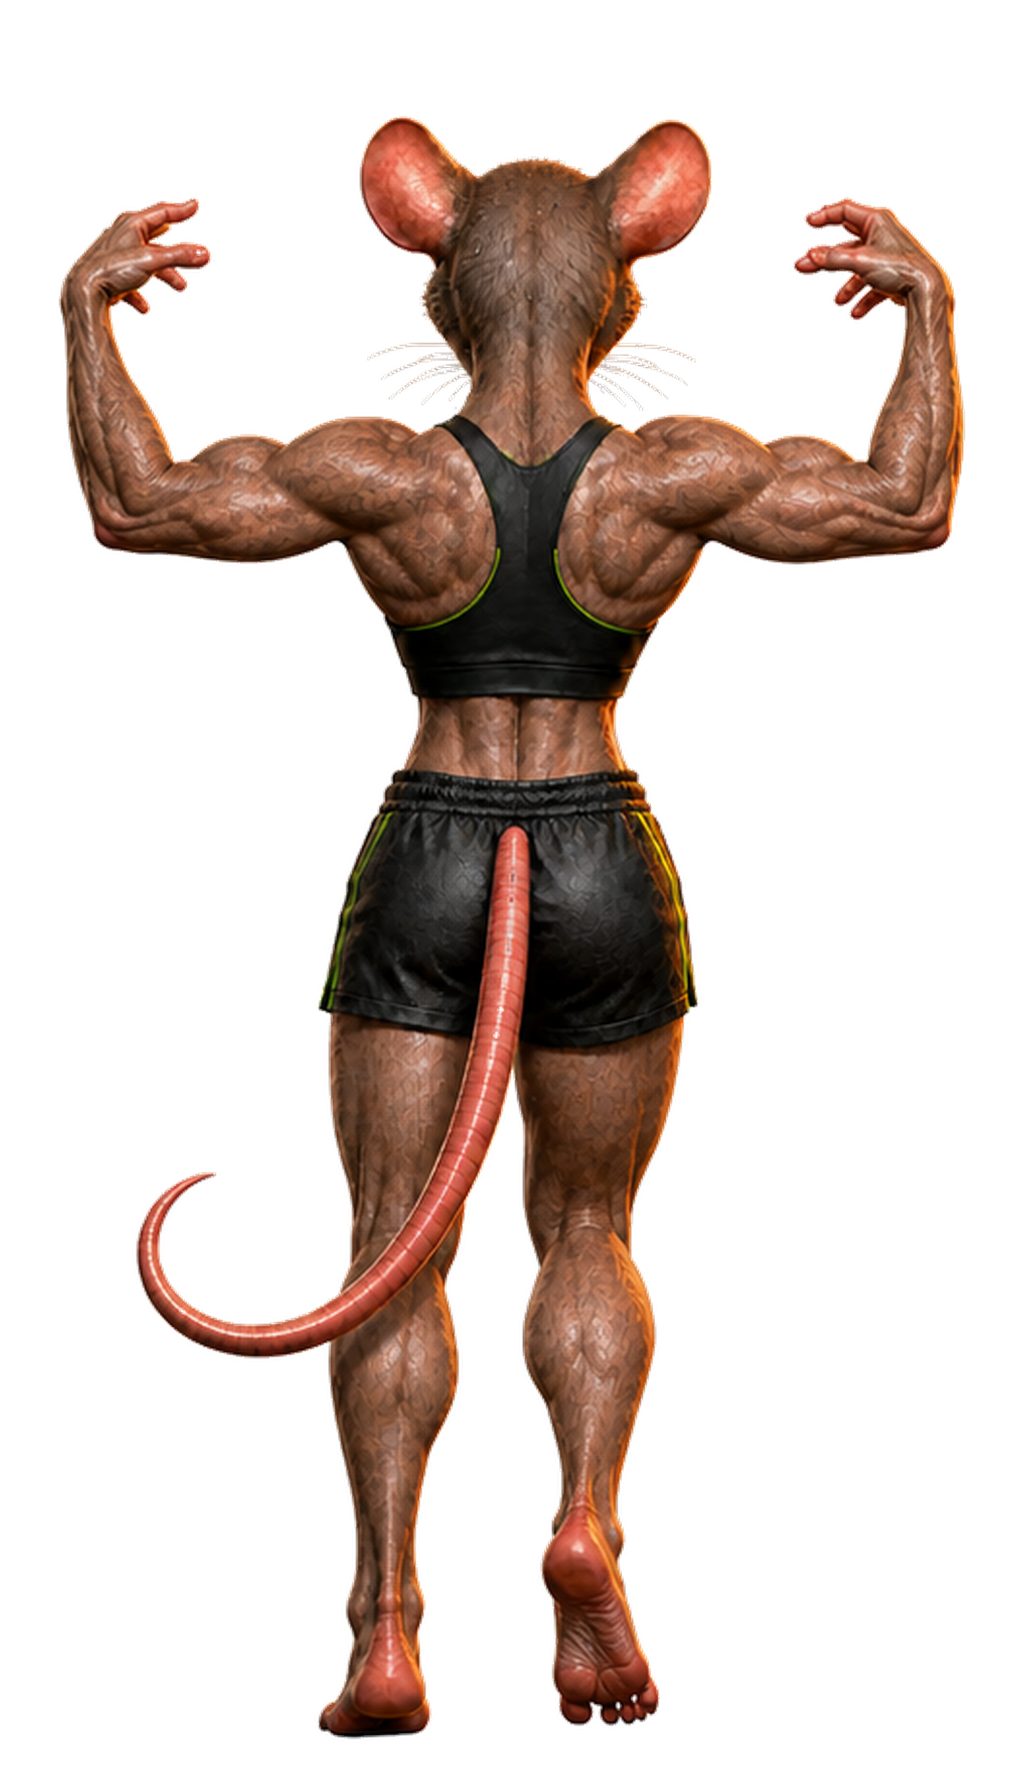
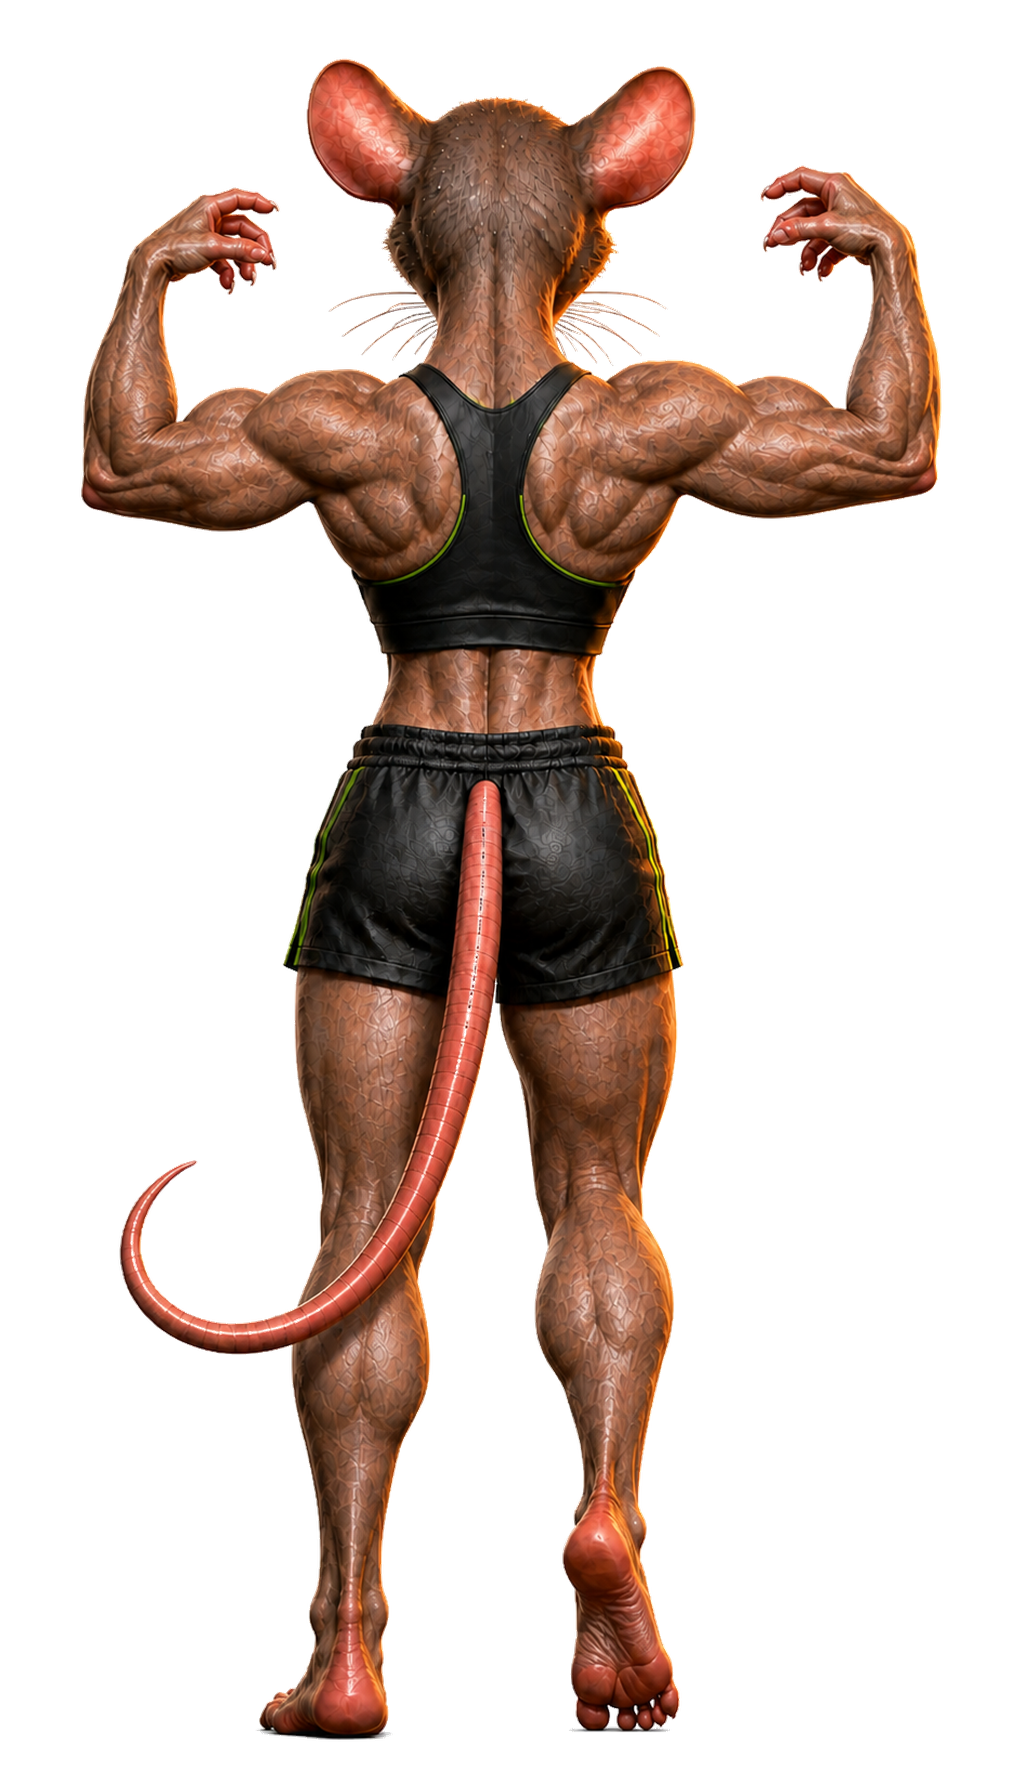
Polish double biceps emote motion

Changed region(s): [[0.0625, 0.0312, 0.9688, 0.9688]]

diff --git a/lib/features/character/presentation/gymrat_character.dart b/lib/features/character/presentation/gymrat_character.dart
@@ -32,6 +32,7 @@ class GymRatCharacter extends StatefulWidget {
   final String? emoteSemanticLabel;
 
   static const double displayScale = .70;
+  static const Duration frameBlendDuration = Duration(milliseconds: 160);
 
   static double breathingScaleX(double progress) =>
       1 + sin(progress.clamp(0.0, 1.0) * pi) * .006;
@@ -508,23 +509,35 @@ class _GymRatCharacterState extends State<GymRatCharacter>
                               ),
                             ),
                           ),
-                          CustomPaint(
-                            painter: _EmoteEffectPainter(progress: emote),
-                          ),
                         ],
                       ),
                     ),
-                  Image.asset(
-                    _action == _IdleAction.blinking
-                        ? _identityMaster
-                        : _currentFrame,
-                    height: widget.height,
-                    fit: BoxFit.contain,
-                    alignment: Alignment.bottomCenter,
-                    gaplessPlayback: true,
-                    filterQuality: FilterQuality.high,
-                    cacheHeight: _cacheHeight,
-                    semanticLabel: widget.gender.name,
+                  AnimatedSwitcher(
+                    duration: GymRatCharacter.frameBlendDuration,
+                    reverseDuration: GymRatCharacter.frameBlendDuration,
+                    switchInCurve: Curves.easeOutCubic,
+                    switchOutCurve: Curves.easeInCubic,
+                    layoutBuilder: (currentChild, previousChildren) => Stack(
+                      alignment: Alignment.bottomCenter,
+                      children: <Widget>[...previousChildren, ?currentChild],
+                    ),
+                    child: Image.asset(
+                      _action == _IdleAction.blinking
+                          ? _identityMaster
+                          : _currentFrame,
+                      key: ValueKey<String>(
+                        _action == _IdleAction.blinking
+                            ? _identityMaster
+                            : _currentFrame,
+                      ),
+                      height: widget.height,
+                      fit: BoxFit.contain,
+                      alignment: Alignment.bottomCenter,
+                      gaplessPlayback: true,
+                      filterQuality: FilterQuality.high,
+                      cacheHeight: _cacheHeight,
+                      semanticLabel: widget.gender.name,
+                    ),
                   ),
                   if (_action == _IdleAction.blinking)
                     Positioned.fill(
@@ -597,51 +610,4 @@ class _BreathingTorsoClipper extends CustomClipper<Rect> {
   @override
   bool shouldReclip(covariant _BreathingTorsoClipper oldClipper) =>
       oldClipper.view != view;
-}
-
-class _EmoteEffectPainter extends CustomPainter {
-  const _EmoteEffectPainter({required this.progress});
-
-  final double progress;
-
-  @override
-  void paint(Canvas canvas, Size size) {
-    final power = sin(progress.clamp(0.0, 1.0) * pi).clamp(0.0, 1.0);
-    if (power <= 0) return;
-    final paint = Paint()
-      ..color = const Color(0xFFFFC107).withValues(alpha: power * .72)
-      ..style = PaintingStyle.stroke
-      ..strokeWidth = 2.2
-      ..strokeCap = StrokeCap.round;
-    final center = Offset(size.width / 2, size.height * .91);
-    final radius = size.width * (.12 + .24 * progress);
-    canvas.drawArc(
-      Rect.fromCircle(center: center, radius: radius),
-      pi * .10,
-      pi * .80,
-      false,
-      paint,
-    );
-    canvas.drawArc(
-      Rect.fromCircle(center: center, radius: radius),
-      pi * 1.10,
-      pi * .80,
-      false,
-      paint,
-    );
-    for (final direction in const <double>[-1, 1]) {
-      canvas.drawLine(
-        Offset(center.dx + direction * size.width * .16, center.dy - 8),
-        Offset(
-          center.dx + direction * size.width * (.24 + .07 * progress),
-          center.dy - size.height * .10,
-        ),
-        paint,
-      );
-    }
-  }
-
-  @override
-  bool shouldRepaint(covariant _EmoteEffectPainter oldDelegate) =>
-      oldDelegate.progress != progress;
 }

diff --git a/test/character_presentation_test.dart b/test/character_presentation_test.dart
@@ -1,6 +1,7 @@
 import 'package:flutter/material.dart';
 import 'package:flutter_test/flutter_test.dart';
 import 'package:gymrat/features/character/domain/rat_animation_set.dart';
+import 'package:gymrat/features/character/domain/rat_appearance.dart';
 import 'package:gymrat/features/character/presentation/gymrat_character.dart';
 import 'package:gymrat/features/evolution/domain/evolution_milestones.dart';
 import 'package:gymrat/features/profile/domain/training_profile.dart';
@@ -22,8 +23,12 @@ void main() {
     expect(torso.right, lessThan(320));
   });
 
-  test('emote playback never adds a synthetic body bounce', () {
+  test('emote playback uses a smooth blend without synthetic effects', () {
     final blink = GymRatCharacter.blinkRect(const Size(320, 600));
+    expect(
+      GymRatCharacter.frameBlendDuration,
+      const Duration(milliseconds: 160),
+    );
     expect(blink.left, greaterThan(0));
     expect(blink.right, lessThan(320));
     expect(blink.top, greaterThan(0));
@@ -65,6 +70,34 @@ void main() {
             expect(emote.frames, hasLength(48));
             expect(emote.frames.first, set.neutral);
             expect(emote.frames.last, set.neutral);
+          }
+        }
+      }
+    }
+  });
+
+  test('every release-ready appearance stage carries matching motion', () {
+    for (final appearance in RatAppearanceCatalog.all) {
+      if (!RatAppearanceCatalog.isReady(appearance.id)) continue;
+      for (final stage in appearance.approvedStages) {
+        for (final gender in RatGender.values) {
+          for (final view in RatCharacterView.values) {
+            final set = RatAnimationCatalog.forCharacter(
+              gender: gender,
+              view: view,
+              level: stage,
+              appearanceId: appearance.id,
+            );
+            expect(
+              set.hasAuthoredBreathing,
+              isTrue,
+              reason: '${appearance.id}/$stage/${gender.name}/${view.name}',
+            );
+            expect(
+              set.hasCompleteEmoteSet,
+              isTrue,
+              reason: '${appearance.id}/$stage/${gender.name}/${view.name}',
+            );
           }
         }
       }
@@ -113,8 +146,15 @@ void main() {
             .map((image) => image.assetName);
         expect(animatedAssets, contains(contains('emote_')));
         expect(
-          find.descendant(of: character, matching: find.byType(CustomPaint)),
+          find.descendant(
+            of: character,
+            matching: find.byType(AnimatedSwitcher),
+          ),
           findsOneWidget,
+        );
+        expect(
+          find.descendant(of: character, matching: find.byType(CustomPaint)),
+          findsNothing,
         );
         expect(tester.takeException(), isNull);
       }

diff --git a/test/character_asset_contract_test.dart b/test/character_asset_contract_test.dart
@@ -150,6 +150,19 @@ void main() {
                 reason: '$asset contains a neighbouring pose fragment',
               );
             }
+            if (asset.contains('/emote_double_biceps_')) {
+              expect(
+                (info.alphaBounds.top - neutralInfo.alphaBounds.top).abs(),
+                lessThanOrEqualTo(20),
+                reason: '$asset shrinks or moves down during the pose',
+              );
+              expect(
+                (info.alphaBounds.bottom - neutralInfo.alphaBounds.bottom)
+                    .abs(),
+                lessThanOrEqualTo(20),
+                reason: '$asset does not preserve the neutral foot line',
+              );
+            }
           }
         }
       }
@@ -243,9 +256,41 @@ Future<_ImageInfo> _inspect(String asset) async {
     width,
     height,
   );
+  final alphaBounds = _alphaBounds(pixels, width, height);
   image.dispose();
   codec.dispose();
-  return _ImageInfo(width, height, corners, pngColorType, largeAlphaComponents);
+  return _ImageInfo(
+    width,
+    height,
+    corners,
+    pngColorType,
+    largeAlphaComponents,
+    alphaBounds,
+  );
+}
+
+ui.Rect _alphaBounds(ByteData pixels, int width, int height) {
+  const alphaThreshold = 16;
+  var left = width;
+  var top = height;
+  var right = 0;
+  var bottom = 0;
+  for (var y = 0; y < height; y++) {
+    for (var x = 0; x < width; x++) {
+      if (pixels.getUint8((y * width + x) * 4 + 3) <= alphaThreshold) continue;
+      if (x < left) left = x;
+      if (x + 1 > right) right = x + 1;
+      if (y < top) top = y;
+      if (y + 1 > bottom) bottom = y + 1;
+    }
+  }
+  if (right == 0 || bottom == 0) return ui.Rect.zero;
+  return ui.Rect.fromLTRB(
+    left.toDouble(),
+    top.toDouble(),
+    right.toDouble(),
+    bottom.toDouble(),
+  );
 }
 
 int _countLargeAlphaComponents(ByteData pixels, int width, int height) {
@@ -307,6 +352,7 @@ class _ImageInfo {
     this.cornerAlphas,
     this.pngColorType,
     this.largeAlphaComponents,
+    this.alphaBounds,
   );
 
   final int width;
@@ -314,4 +360,5 @@ class _ImageInfo {
   final List<int> cornerAlphas;
   final int pngColorType;
   final int largeAlphaComponents;
+  final ui.Rect alphaBounds;
 }

diff --git a/tool/character_pipeline/prepare_generated_sprite.py b/tool/character_pipeline/prepare_generated_sprite.py
@@ -18,7 +18,10 @@ from PIL import Image
 
 CANVAS = (1024, 1792)
 TOP_MARGIN = 54
-SIDE_MARGIN = 54
+# Poses such as double biceps are intentionally wider than the neutral stance.
+# Keep enough transparent padding for filtering without shrinking the whole rat
+# vertically just to preserve the neutral pose's larger side gutter.
+SIDE_MARGIN = 32
 BOTTOM_MARGIN = 48
 
 

diff --git a/docs/CHARACTER_APPEARANCE_PIPELINE.md b/docs/CHARACTER_APPEARANCE_PIPELINE.md
@@ -92,13 +92,13 @@ view, appearance, and approved-stage routing as the neutral render. The base
 level-1 front and back masters for male, female, and non-binary each have
 deterministic full-canvas breathing frames derived from their own exact
 approved master. The frames preserve identity and transparency and are reused
-for every player level that currently resolves to approved stage 1. Every
-level-1 front view also has identity-specific authored blink and tail frames.
-The former double-biceps drafts were rejected because their arm, leg, and
-identity continuity did not satisfy `docs/CHARACTER_EMOTE_POSE_CONTRACT.md`.
-Back views currently use authored breathing only; front-only motion is never
-mislabeled or reused behind the character, and the removed synthetic fallback
-must never be used to imitate a missing pose.
+for every player level that currently resolves to approved stage 1. All six
+identity/view combinations also have the four authored emotes, including the
+accepted straight-arm entry and flexed hold for double biceps. Front views have
+identity-specific authored blink frames. Motion that has not passed the exact
+identity, view, stage, outfit, tail-anchor, canvas, and transparency contract
+stays disabled; a front frame is never reused behind the character and a
+synthetic transform is never used to imitate missing art.
 
 Later-stage, back-view, and outfit motion frames must be exported from their
 matching approved neutral render. Never reuse one identity's frames for another
@@ -118,6 +118,6 @@ by the articulated tail chain.
 The root position is identical in neutral, breathing, blinking, tail, and emote
 exports. Motion may bend the articulated chain but may not translate its root.
 Both front and back review renders must pass this check for male, female, and
-non-binary before a stage is activated. The current female and non-binary
-level-1 back references require an authored rerender at this anchor; an AI edit
-that changes the shorts, body, framing, or transparency is not acceptable.
+non-binary before a stage is activated. Any correction that changes the shorts,
+body identity, framing, or transparency outside the intended pose remains
+unacceptable.
